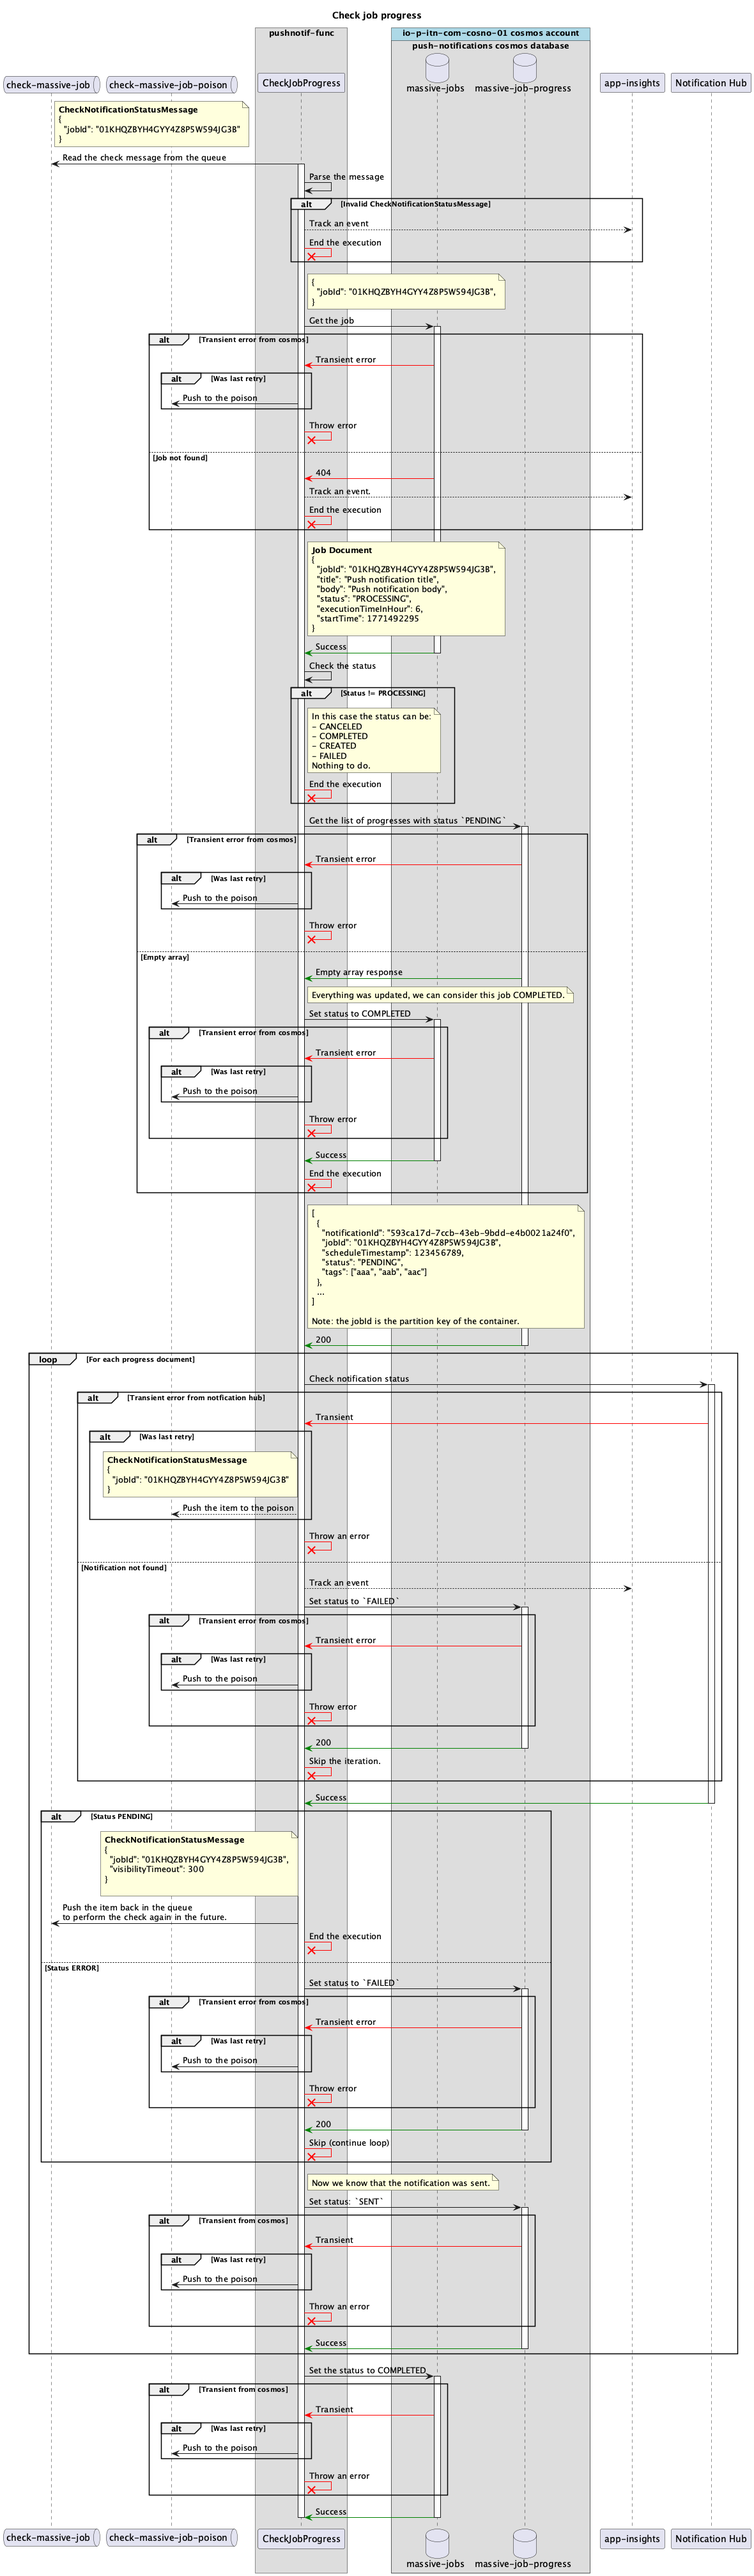
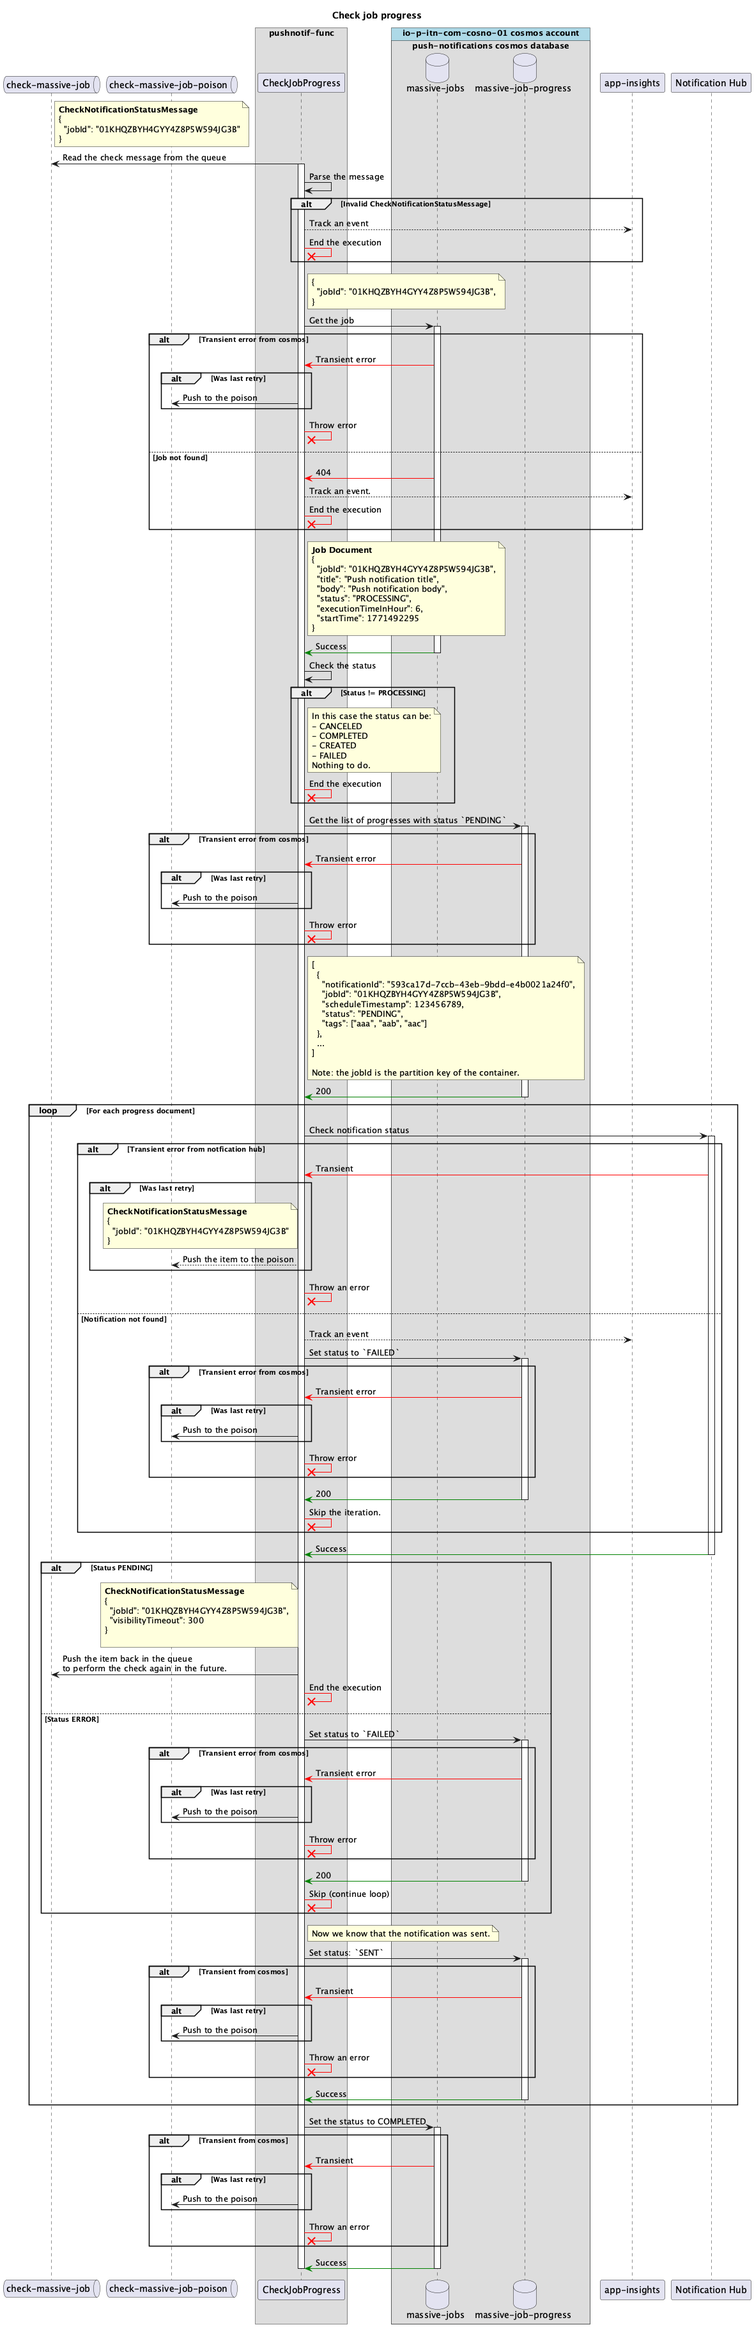
Avoid redundant setStatus(`COMPLETED`)

diff --git a/apps/pushnotif-func/src/domain/use-cases/check-massive-job.ts b/apps/pushnotif-func/src/domain/use-cases/check-massive-job.ts
@@ -83,14 +83,6 @@ export class CheckMassiveJobStatusUseCase {
       return massivePendingProgress;
     }
 
-    // If there is no pending progress we consider the job to be completed.
-    if (massivePendingProgress.length === 0) {
-      return this.setMassiveJobStatus(
-        massiveJob.id,
-        MassiveJobStatusEnum.enum.COMPLETED,
-      );
-    }
-
     // For each pending progress we can use the `id` to check the notification status.
     for (const progress of massivePendingProgress) {
       const notificationDetails =
